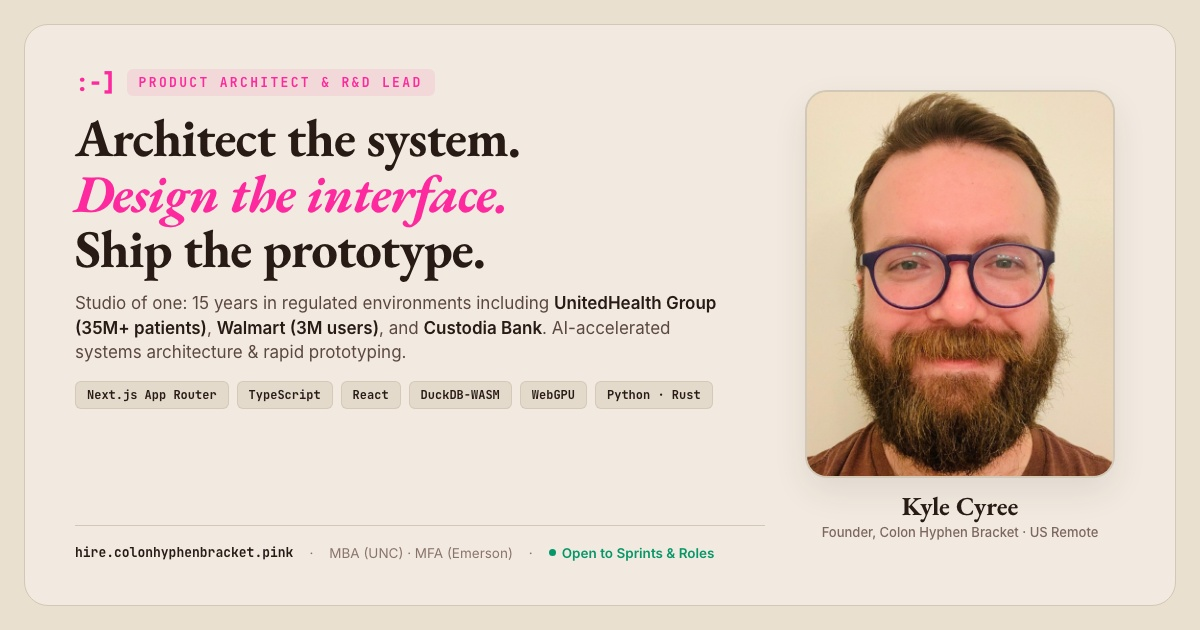
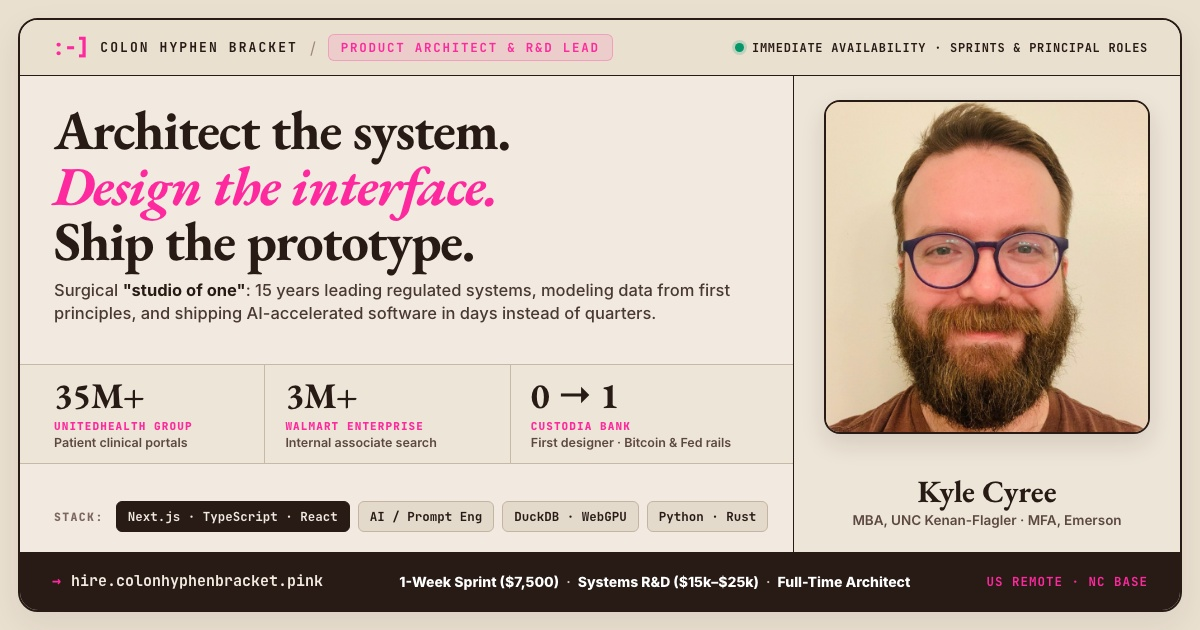
Upgrade to Vignelli Swiss-Grid OG v2 card, per-case-study OG cards, and TechStack proof links

diff --git a/client/src/components/chb/tech-stack.tsx b/client/src/components/chb/tech-stack.tsx
@@ -1,4 +1,12 @@
-import { Layout, Database, Sparkles, Terminal, ArrowUpRight } from "lucide-react";
+import { Link } from "wouter";
+import { Layout, Database, Sparkles, Terminal, ArrowRight, ArrowUpRight, Calendar } from "lucide-react";
+import { openContactModal } from "@/lib/contact-events";
+
+interface ProofLink {
+  label: string;
+  href: string;
+  external?: boolean;
+}
 
 interface StackPillar {
   number: string;
@@ -8,6 +16,7 @@ interface StackPillar {
   tags: string[];
   description: string;
   deliverables: string;
+  proofLinks: ProofLink[];
 }
 
 const pillars: StackPillar[] = [
@@ -19,6 +28,10 @@ const pillars: StackPillar[] = [
     tags: ["TypeScript", "Next.js (App Router)", "React 18/19", "Tailwind CSS", "Framer Motion", "Radix UI"],
     description: "Swiss 8pt grid discipline, responsive web layouts, zero-layout-shift micro-interactions, and accessible ARIA primitives built to enterprise design standards.",
     deliverables: "Design tokens, component libraries, high-fidelity interactive prototypes, and production UI.",
+    proofLinks: [
+      { label: "Custodia Bank OS", href: "/case-studies/custodia" },
+      { label: "UnitedHealth Group (35M+)", href: "/case-studies/unitedhealth" },
+    ],
   },
   {
     number: "02",
@@ -28,6 +41,10 @@ const pillars: StackPillar[] = [
     tags: ["PostgreSQL", "LibSQL / SQLite", "DuckDB-WASM", "Apache Arrow", "Zod", "REST & GraphQL"],
     description: "Modeling data from first principles. Structuring relational schemas, type-safe validation, and client-side zero-knowledge analytics on 500k+ records in-browser.",
     deliverables: "Pragmatic schemas, edge databases, client-side analytical engines, and end-to-end type contracts.",
+    proofLinks: [
+      { label: "Marigold Audit (DuckDB-WASM)", href: "https://github.com/rorshockbtc/marigold", external: true },
+      { label: "Walmart Enterprise Search (3M)", href: "/case-studies/walmart" },
+    ],
   },
   {
     number: "03",
@@ -37,6 +54,10 @@ const pillars: StackPillar[] = [
     tags: ["Claude & Gemini APIs", "Structured Outputs (JSON)", "WebGPU", "Transformers.js", "Agentic Tool-Calling"],
     description: "Using AI to build, test, and iterate rapidly—especially on backend logic and data pipelines. Deterministic model steering, zero-cloud client privacy, and automated prototyping.",
     deliverables: "AI-assisted backend scaffolding, local neural inference, custom prompts, and domain-specific agents.",
+    proofLinks: [
+      { label: "Greater-Than (WebGPU)", href: "https://github.com/rorshockbtc/greater-than", external: true },
+      { label: "Cassandra AI Triage", href: "/case-studies/cassandra" },
+    ],
   },
   {
     number: "04",
@@ -46,6 +67,10 @@ const pillars: StackPillar[] = [
     tags: ["Tauri 2.0", "Rust", "Swift / SwiftUI", "Python (Data/ETL)", "Vite"],
     description: "Bridging web engines into native desktop and mobile runtimes. Writing automated data extraction scripts and native OS integrations when off-the-shelf tools fall short.",
     deliverables: "Native macOS/iOS test builds, high-throughput ETL scripts, and sovereign desktop apps.",
+    proofLinks: [
+      { label: "Pipes Native (Tauri/Rust/Swift)", href: "https://github.com/rorshockbtc/pipes-native", external: true },
+      { label: "Pipes Sovereign Protocol", href: "/case-studies/pipes" },
+    ],
   },
 ];
 
@@ -62,7 +87,7 @@ export function TechStack() {
           How I build: architecture, craft, and AI velocity.
         </h3>
         <p className="text-base sm:text-lg text-[#5C4840] font-sans leading-relaxed">
-          I'm a systems architect, product designer, and prompt engineer who understands code. I don't claim to be a low-level compiler hacker—I model data schemas from first principles, craft interfaces with Swiss discipline, inspect pull requests, and leverage AI to write backend logic and ship functional prototypes in days instead of quarters.
+          I'm a systems architect, product designer, and prompt engineer who can read and reason about code. I don't claim to be a low-level compiler hacker—I model data schemas from first principles, craft interfaces with Swiss discipline, inspect pull requests, and use AI acceleration (especially on the backend) to ship working software in days instead of quarters.
         </p>
       </div>
 
@@ -112,20 +137,48 @@ export function TechStack() {
                 </div>
               </div>
 
-              {/* Bottom Deliverables */}
-              <div className="pt-4 border-t border-[#D3C7B5]/60 font-sans text-xs sm:text-sm text-[#6B554D]">
-                <span className="font-semibold text-[#281B16] uppercase tracking-wider text-[11px] block mb-1">
-                  Key Deliverables
-                </span>
-                {pillar.deliverables}
+              {/* Bottom Deliverables + Live Proof Links */}
+              <div className="pt-4 border-t border-[#D3C7B5]/60 space-y-3 font-sans text-xs sm:text-sm text-[#6B554D]">
+                <div>
+                  <span className="font-semibold text-[#281B16] uppercase tracking-wider text-[11px] block mb-1">
+                    Key Deliverables
+                  </span>
+                  {pillar.deliverables}
+                </div>
+                <div className="pt-2 flex flex-wrap items-center gap-x-4 gap-y-1.5">
+                  <span className="font-mono text-[11px] uppercase tracking-wider font-bold text-[#8A736A]">
+                    Shipped in:
+                  </span>
+                  {pillar.proofLinks.map((proof) =>
+                    proof.external ? (
+                      <a
+                        key={proof.label}
+                        href={proof.href}
+                        target="_blank"
+                        rel="noopener noreferrer"
+                        className="inline-flex items-center gap-1 font-sans text-xs font-bold text-[#281B16] hover:text-[#FE299E] underline decoration-[#D3C7B5] underline-offset-4 hover:decoration-[#FE299E] transition-colors"
+                      >
+                        {proof.label} <ArrowUpRight className="w-3 h-3 text-[#FE299E]" />
+                      </a>
+                    ) : (
+                      <Link
+                        key={proof.label}
+                        href={proof.href}
+                        className="inline-flex items-center gap-1 font-sans text-xs font-bold text-[#281B16] hover:text-[#FE299E] underline decoration-[#D3C7B5] underline-offset-4 hover:decoration-[#FE299E] transition-colors"
+                      >
+                        {proof.label} <ArrowRight className="w-3 h-3 text-[#FE299E]" />
+                      </Link>
+                    )
+                  )}
+                </div>
               </div>
             </div>
           );
         })}
       </div>
 
-      {/* Grounding Ethos Callout */}
-      <div className="p-6 sm:p-8 rounded-2xl border border-[#D3C7B5] bg-[#EAE0D0] flex flex-col sm:flex-row items-start sm:items-center justify-between gap-6">
+      {/* Grounding Ethos & Conversion Callout */}
+      <div className="p-6 sm:p-8 rounded-2xl border border-[#D3C7B5] bg-[#EAE0D0] flex flex-col lg:flex-row items-start lg:items-center justify-between gap-6">
         <div className="space-y-1.5 max-w-2xl">
           <p className="font-sans text-xs uppercase tracking-widest font-bold text-[#FE299E]">
             Operating as a Unit of One
@@ -137,14 +190,23 @@ export function TechStack() {
             By architecting data schemas and prototyping in code with AI acceleration, decisions that usually take 6 cross-functional meetings get validated in a single afternoon.
           </p>
         </div>
-        <a
-          href="https://github.com/rorshockbtc"
-          target="_blank"
-          rel="noopener noreferrer"
-          className="inline-flex items-center gap-2 px-6 h-12 rounded-full bg-[#281B16] hover:bg-[#3D2C24] text-[#F2EAE0] font-sans text-sm font-bold transition-colors whitespace-nowrap"
-        >
-          View GitHub Repos <ArrowUpRight className="w-4 h-4 text-[#FE299E]" />
-        </a>
+        <div className="flex flex-wrap items-center gap-3 shrink-0">
+          <button
+            type="button"
+            onClick={() => openContactModal("1-week sprint ($7,500)")}
+            className="inline-flex items-center gap-2 px-6 h-12 rounded-full bg-[#FE299E] hover:bg-[#D81B80] text-white font-sans text-sm font-bold transition-colors whitespace-nowrap"
+          >
+            Scope a 1-Week Sprint · $7,500 <ArrowRight className="w-4 h-4" />
+          </button>
+          <a
+            href="https://calendly.com/cubby-colonhyphenbracket/30min"
+            target="_blank"
+            rel="noopener noreferrer"
+            className="inline-flex items-center gap-2 px-5 h-12 rounded-full border border-[#281B16]/25 hover:border-[#281B16] text-[#281B16] font-sans text-sm font-bold transition-colors whitespace-nowrap"
+          >
+            <Calendar className="w-4 h-4 text-[#FE299E]" /> Book 30-min call
+          </a>
+        </div>
       </div>
     </div>
   );

diff --git a/client/index.html b/client/index.html
@@ -16,8 +16,8 @@
     <meta property="og:title" content="Kyle Cyree | Product Architect &amp; R&amp;D Lead" />
     <meta property="og:description" content="Studio of one: 15 years in regulated environments (UnitedHealth Group 35M+, Walmart 3M, Custodia Bank). Architect the system, design the interface, ship the prototype." />
     <meta property="og:url" content="https://hire.colonhyphenbracket.pink" />
-    <meta property="og:image" content="https://hire.colonhyphenbracket.pink/og-image.jpg" />
-    <meta property="og:image:secure_url" content="https://hire.colonhyphenbracket.pink/og-image.jpg" />
+    <meta property="og:image" content="https://hire.colonhyphenbracket.pink/og-card-v2.jpg" />
+    <meta property="og:image:secure_url" content="https://hire.colonhyphenbracket.pink/og-card-v2.jpg" />
     <meta property="og:image:type" content="image/jpeg" />
     <meta property="og:image:width" content="1200" />
     <meta property="og:image:height" content="630" />
@@ -28,14 +28,14 @@
     <meta name="twitter:creator" content="@kylecyree" />
     <meta name="twitter:title" content="Kyle Cyree | Product Architect &amp; R&amp;D Lead" />
     <meta name="twitter:description" content="Studio of one: 15 years in regulated environments (UnitedHealth Group 35M+, Walmart 3M, Custodia Bank). Architect the system, design the interface, ship the prototype." />
-    <meta name="twitter:image" content="https://hire.colonhyphenbracket.pink/og-image.jpg" />
+    <meta name="twitter:image" content="https://hire.colonhyphenbracket.pink/og-card-v2.jpg" />
     <meta name="twitter:image:alt" content="Kyle Cyree — Product Architect &amp; R&amp;D Lead" />
     <link rel="icon" type="image/png" href="/images/favicon.png" />
     <link rel="preconnect" href="https://fonts.gstatic.com" crossorigin>
     <link rel="preconnect" href="https://fonts.googleapis.com">
     <link href="https://fonts.googleapis.com/css2?family=EB+Garamond:ital,wght@0,400..800;1,400..800&family=Inter:opsz,wght@14..32,400..800&display=swap" rel="stylesheet">
     <script type="application/ld+json">
-    {"@context":"https://schema.org","@type":"Person","name":"Kyle Cyree","jobTitle":"Product Architect & R&D Lead","url":"https://hire.colonhyphenbracket.pink","image":"https://hire.colonhyphenbracket.pink/og-image.jpg","email":"mailto:rorshock@protonmail.com","address":{"@type":"PostalAddress","addressRegion":"NC","addressCountry":"US"},"alumniOf":[{"@type":"CollegeOrUniversity","name":"University of North Carolina at Chapel Hill"},{"@type":"CollegeOrUniversity","name":"Emerson College"},{"@type":"CollegeOrUniversity","name":"Texas Tech University"}],"sameAs":["https://www.linkedin.com/in/kyle-cyree/","https://github.com/rorshockbtc"],"knowsAbout":["Product Architecture","Systems Architecture","Design Systems","Healthcare UX","Fintech","TypeScript","React","Next.js","AI Prototyping"]}
+    {"@context":"https://schema.org","@type":"Person","name":"Kyle Cyree","jobTitle":"Product Architect & R&D Lead","url":"https://hire.colonhyphenbracket.pink","image":"https://hire.colonhyphenbracket.pink/og-card-v2.jpg","email":"mailto:rorshock@protonmail.com","address":{"@type":"PostalAddress","addressRegion":"NC","addressCountry":"US"},"alumniOf":[{"@type":"CollegeOrUniversity","name":"University of North Carolina at Chapel Hill"},{"@type":"CollegeOrUniversity","name":"Emerson College"},{"@type":"CollegeOrUniversity","name":"Texas Tech University"}],"sameAs":["https://www.linkedin.com/in/kyle-cyree/","https://github.com/rorshockbtc"],"knowsAbout":["Product Architecture","Systems Architecture","Design Systems","Healthcare UX","Fintech","TypeScript","React","Next.js","AI Prototyping"]}
     </script>
   </head>
   <body>

diff --git a/client/src/pages/portfolio.tsx b/client/src/pages/portfolio.tsx
@@ -640,7 +640,7 @@ export default function PortfolioPage() {
                 A designer who ships code.
               </h2>
               <p className="text-lg sm:text-xl text-[#5C4840] font-sans leading-relaxed max-w-2xl">
-                I'm a systems architect, product designer, and prompt engineer who understands code. I model data schemas from first principles, design interfaces with Swiss discipline, and leverage AI to write backend logic and ship functional prototypes in days instead of quarters. Day to day that's TypeScript with React and Next.js, plus Node, Python, and a little Rust. Most of my client work is private. These repos are public.
+                Most of my enterprise client work is under NDA, so I build and release open-source systems in public. Day to day that's TypeScript with React and Next.js, backed by Python, DuckDB-WASM, WebGPU, and Rust when local performance or data pipelines demand it.
               </p>
             </div>
             <div className="lg:col-span-5 lg:justify-self-end">
